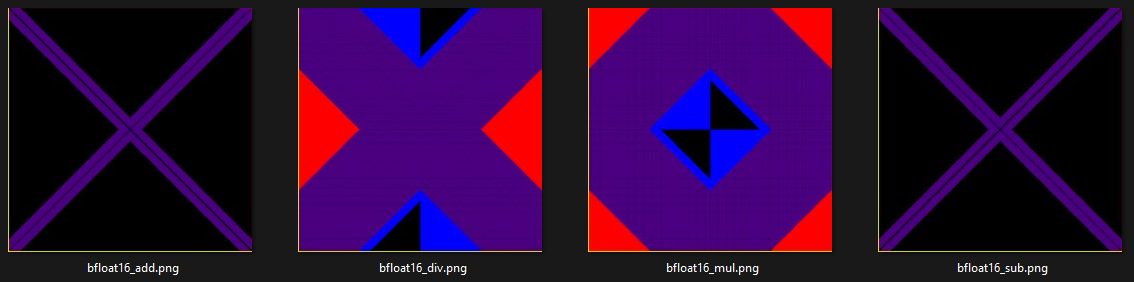
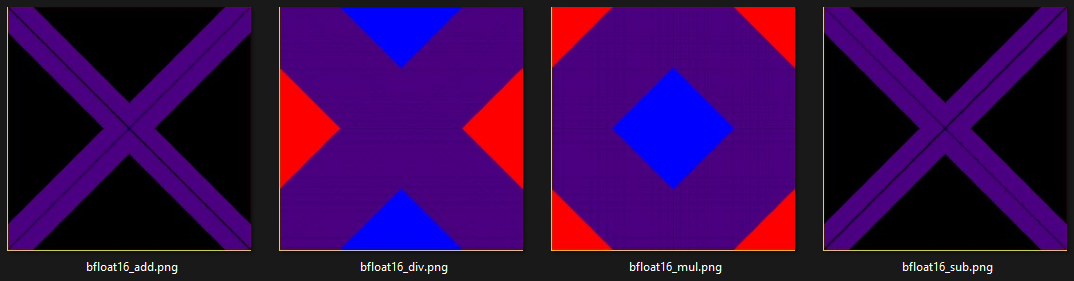
bug fix on bfloat16 closure result

diff --git a/include/sw/universal/number/bfloat16/bfloat16_impl.hpp b/include/sw/universal/number/bfloat16/bfloat16_impl.hpp
@@ -133,8 +133,8 @@ public:
 	constexpr bfloat16(unsigned int iv)                   noexcept : _bits{} { *this = iv; }
 	constexpr bfloat16(unsigned long iv)                  noexcept : _bits{} { *this = iv; }
 	constexpr bfloat16(unsigned long long iv)             noexcept : _bits{} { *this = iv; }
-	constexpr bfloat16(float iv)                          noexcept : _bits{} { *this = iv; }
-	constexpr bfloat16(double iv)                         noexcept : _bits{} { *this = iv; }
+	explicit constexpr bfloat16(float iv)                 noexcept : _bits{} { *this = iv; }
+	explicit constexpr bfloat16(double iv)                noexcept : _bits{} { *this = iv; }
 
 	// assignment operators for native types
 	constexpr bfloat16& operator=(signed char rhs)        noexcept { return convert_signed(rhs); }
@@ -351,7 +351,7 @@ public:
 	}
 
 	// selectors
-	constexpr bool iszero()    const noexcept { return _bits == 0; }
+	constexpr bool iszero()    const noexcept { return (_bits == 0x0000u) || (_bits == 0x8000u); }
 	constexpr bool isone()     const noexcept { return (_bits == 0x3F80u); }
 	constexpr bool isodd()     const noexcept { return (_bits & 0x0001u); }
 	constexpr bool iseven()    const noexcept { return !isodd(); }
@@ -445,7 +445,7 @@ inline bfloat16 abs(bfloat16 a) {
 /// stream operators
 
 // parse a bfloat16 ASCII format and make a binary bfloat16 out of it
-inline bool parse(const std::string& number, bfloat16& value) {
+inline bool parse(const std::string& /* number */, bfloat16& value) {
 	bool bSuccess = false;
 	value.zero();
 	return bSuccess;

diff --git a/tools/closure/test_closure_bfloat16.cpp b/tools/closure/test_closure_bfloat16.cpp
@@ -1,0 +1,50 @@
+// Copyright (C) 2017 Stillwater Supercomputing, Inc.
+// SPDX-License-Identifier: MIT
+//
+// test_closure.cpp: test closure plots for configurations
+//
+// This file is part of the universal numbers project, which is released under an MIT Open Source license.
+
+#include <iostream>
+#include <string>
+#include <universal/native/ieee754.hpp>
+#include <universal/number/bfloat16/bfloat16.hpp>
+#include <universal/utility/closure_plot_png.hpp>
+
+using namespace sw::universal;
+
+int main() {
+	using namespace sw::universal;
+
+	ClosurePlotPNG<bfloat16> plotter;
+	double error = 0.0;
+	bfloat16 a, b, c;
+
+	a.setbits(0x0001); // smallest positive
+	b.setbits(0x0001); // smallest positive
+
+	std::cout << to_binary(a) << " : " << a << '\n';
+
+	for (unsigned int i = 0; i < 16; ++i) {
+		c = a * b;
+		std::cout << std::setw(5) << i << " : " << to_binary(c) << " : " << c << '\n';
+		std::cout << plotter.cr(a, b, c, 0.0, error) << '\n';
+		float fc = float(a) * float(b);
+		std::cout << std::setw(5) << i << " : " << to_binary(fc) << " : " << fc << '\n';
+		++b;
+	}
+
+
+	a.setbits(0x8001); // smallest negative
+	std::cout << to_binary(a) << " : " << a << '\n';
+	for (unsigned int i = 0; i < 16; ++i) {
+		c = a * b;
+		std::cout << std::setw(5) << i << " : " << to_binary(c) << " : " << c << '\n';
+		ClosureResult result = plotter.cr(a, b, c, 0.0, error);
+		std::cout << result << '\n';
+		float fc = float(a) * float(b);
+		std::cout << std::setw(5) << i << " : " << to_binary(fc) << " : " << fc << '\n';
+		++b;
+	}
+
+}

diff --git a/include/sw/universal/utility/closure_plot_png.hpp b/include/sw/universal/utility/closure_plot_png.hpp
@@ -176,6 +176,13 @@ private:
         else if (sw::universal::isinf(result)) {
             return ClosureResult::OVERFLOW_;
         }
+        else if (sw::universal::iszero(result)) {
+            if (targetValue == 0.0) {
+                return ClosureResult::EXACT;
+            } else {
+                return ClosureResult::UNDERFLOW_;
+            }
+		}
         else if (!sw::universal::isnormal(result) && result != NumberType(0)) {
             return ClosureResult::UNDERFLOW_;
         }
@@ -262,6 +269,12 @@ private:
     }
 
 public:
+
+    // debug 
+    ClosureResult cr(NumberType va, NumberType vb, NumberType result,
+        double targetValue, double& normalizedError) const {
+        return classifyResult(va, vb, result, targetValue, normalizedError);
+    }
 
     // Generate closure data for a specific operation
     template<char Op>

diff --git a/include/sw/universal/number/bfloat16/math/functions/classify.hpp b/include/sw/universal/number/bfloat16/math/functions/classify.hpp
@@ -28,9 +28,19 @@ inline bool isnan(bfloat16 x) {
 	return x.isnan();
 }
 
+// Determines if the given floating point number arg is the 0 value.
+inline bool iszero(bfloat16 x) {
+	return x.iszero();
+}
+
 // Determines if the given floating point number arg is normal, i.e., not zero, not subnormal, infinite, or NaN.
 inline bool isnormal(bfloat16 x) {
-	int fpClass = fpclassify(float(x));
+	float f;
+	uint16_t pun[2];
+	pun[1] = x.bits();
+	pun[0] = 0;
+	std::memcpy(&f, pun, 4);
+	int fpClass = std::fpclassify(f);
 	return (fpClass == FP_NORMAL);
 }
 
